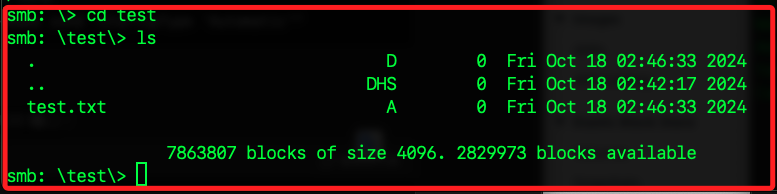
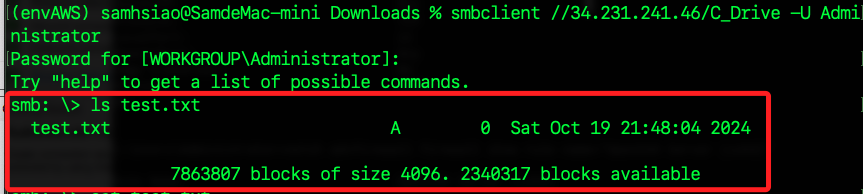
Commit on 2024-10-19 22:02:39

diff --git a/01_課程筆記/1017_B05/02_訪問 Windows 主機.md b/01_課程筆記/1017_B05/02_訪問 Windows 主機.md
@@ -327,24 +327,22 @@ _回到 Windows 伺服器中_
 2. 可使用 CLI。
 
     ```bash
-    aws ec2 authorize-security-group-ingress \
-        --group-id <安全群組-ID> \
-        --protocol tcp \
-        --port 22 \
-        --cidr 0.0.0.0/0
+    aws ec2 authorize-security-group-ingress --group-id <安全群組-ID> --protocol tcp --port 22 --cidr 0.0.0.0/0
     ```
+
+    ![](images/img_87.png)
 
 <br>
 
-3. 傳送本機建立任意文件到 Windows，這裡示範使用 `~/Downloads` 中的 `test.txt`，傳送到 Windows C 槽的 `test` 目錄。
+3. 傳送本機建立任意文件到 Windows，這裡示範使用 `~/Downloads` 中的 `test.txt`，傳送到 Windows C 槽的根目錄。
 
     ```bash
-    scp test.txt Administrator@<EC2-公共-IP>:C:/test
+    scp test.txt Administrator@<EC2-公共-IP>:C:
     ```
 
 <br>
 
-4. 第一次連線會詢問是否確定，輸入密碼後會立即傳送文件。
+4. 第一次連線會詢問是否確定，輸入 `yes` 後還要輸入密碼，然後就會立即傳送文件。
 
     ![](images/img_45.png)
 
@@ -352,19 +350,31 @@ _回到 Windows 伺服器中_
 
 5. 透過 smb 連線並查看。
 
+    ```bash
+    smbclient //<EC2-公共-IP>/<共享名稱-C-槽> -U Administrator
+    ```
+
     ![](images/img_46.png)
 
 <br>
 
+6. 下載為指定名稱；在 smb 中並無查看內容的指令，但是可以透過指令下載查看。
+
+    ```bash
+    get test.txt test02.txt
+    ```
+
+    <br>
+
 ## MacOS 使用 Finder 連線
 
-1. `Finder` > `前往` > `連接到伺服器`。
+1. `Finder` > `前往` > `連接伺服器`。
 
     ![](images/img_47.png)
 
 <br>
 
-2. 輸入並連線。
+2. 輸入 IP 後點擊 `連線`。
 
     ```bash
     smb://<EC2-公共-IP>
@@ -380,35 +390,21 @@ _回到 Windows 伺服器中_
 
 <br>
 
-4. 輸入帳戶 `Administrator` 及密碼。
+4. 帳戶會預設為本地使用者名稱，要改為 `Administrator`，並且輸入連線密碼。
 
     ![](images/img_50.png)
 
 <br>
 
-5. 加載卷宗。
+5. 確認名稱正確，點擊右下角 `好` 來進行裝載卷宗。
 
     ![](images/img_51.png)
 
 <br>
 
-6. 完成時可在 Finder 中查看。
+6. 完成時可在 Finder 中查看到這個裝載的卷宗。
 
     ![](images/img_52.png)
-
-<br>
-
-## 關於防火牆
-
-_後補_
-
-<br>
-
-1. 透過終端機查詢防火牆狀態。
-
-    ```bash
-    netsh advfirewall show allprofiles state
-    ```
 
 <br>
 

diff --git a/01_課程筆記/1017_B05/05_指令彙整.md b/01_課程筆記/1017_B05/05_指令彙整.md
@@ -8,7 +8,7 @@
 
 ## AWS CLI
 
-1. 通過以下 AWS CLI 指令獲取 EC2 公共 IP。
+1. 獲取 EC2 公共 IP。
 
     ```bash
     aws ec2 describe-instances --instance-ids <EC2-實例-ID> --query "Reservations[*].Instances[*].PublicIpAddress"
@@ -17,6 +17,19 @@
     ![](images/img_36.png)
 
 <br>
+
+## Winodws CMD 指令
+
+1. 查詢防火牆狀態。
+
+    ```bash
+    netsh advfirewall show allprofiles state
+    ```
+
+    ![](images/img_88.png)
+
+<br>
+
 
 ___
 
